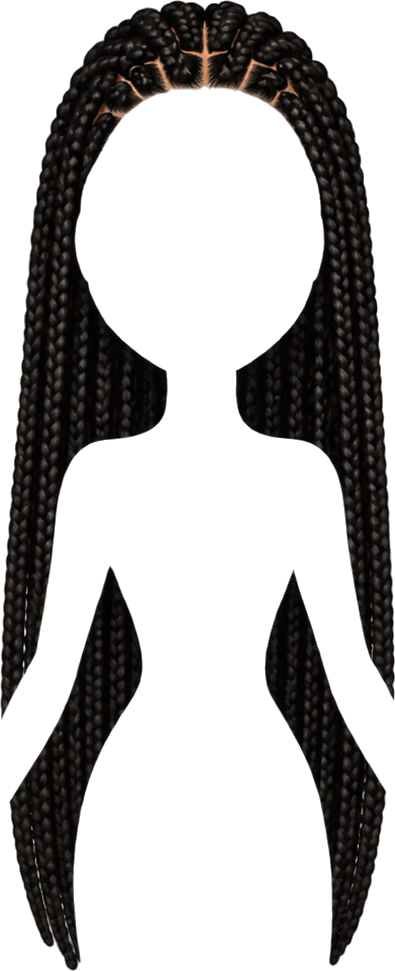
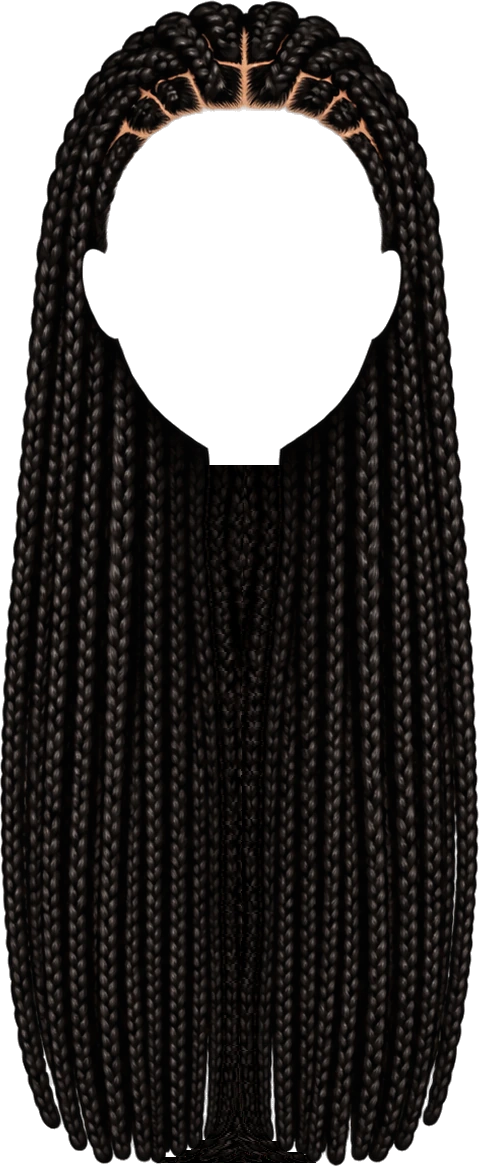
closet: cabelos longos sem fenda

diff --git a/config/bonequinha-posicoes.ts b/config/bonequinha-posicoes.ts
@@ -4,18 +4,18 @@
 export type Pos = [number, number, number, number, number?];
 export const POSICOES: Record<string, Pos> = {
   // cabelos
-  h1_0: [64.6, 43.2, 218.2, 529.8],
-  h1_1: [-1.4, 41.4, 350.8, 542.9],
+  h1_0: [56.9, 43.2, 233.7, 585.7],
+  h1_1: [-14.5, 39.0, 376.8, 570.8],
   h1_2: [62.2, 17.1, 227.1, 334.4],
   h1_3: [62.2, 45.6, 223.0, 259.2],
-  h2_0: [54.5, 39.0, 234.9, 577.4],
-  h2_1: [4.5, 26.5, 338.9, 580.9],
-  h2_2: [63.4, 5.1, 221.2, 605.3],
-  h2_3: [33.1, 20.0, 281.2, 608.9],
-  h3_0: [58.6, 3.4, 230.7, 608.3],
+  h2_0: [63.0, 44.7, 217.9, 530.3],
+  h2_1: [15.9, 31.8, 316.7, 544.2],
+  h2_2: [52.0, -13.1, 241.9, 651.7],
+  h2_3: [31.0, 21.7, 283.6, 645.5],
+  h3_0: [70.2, 16.5, 182.6, 627.3],
   h3_1: [17.6, 11.1, 311.6, 343.1],
-  h3_2: [66.4, 46.2, 217.0, 550.0],
-  h3_3: [27.1, 43.2, 293.1, 552.4],
+  h3_2: [63.5, 18.8, 220.0, 627.0],
+  h3_3: [36.7, 50.5, 272.2, 602.9],
   h4_0: [39.6, 37.2, 266.4, 269.9],
   h4_1: [74.1, 40.8, 211.1, 175.4],
   h4_2: [81.2, 41.4, 185.5, 270.5],
